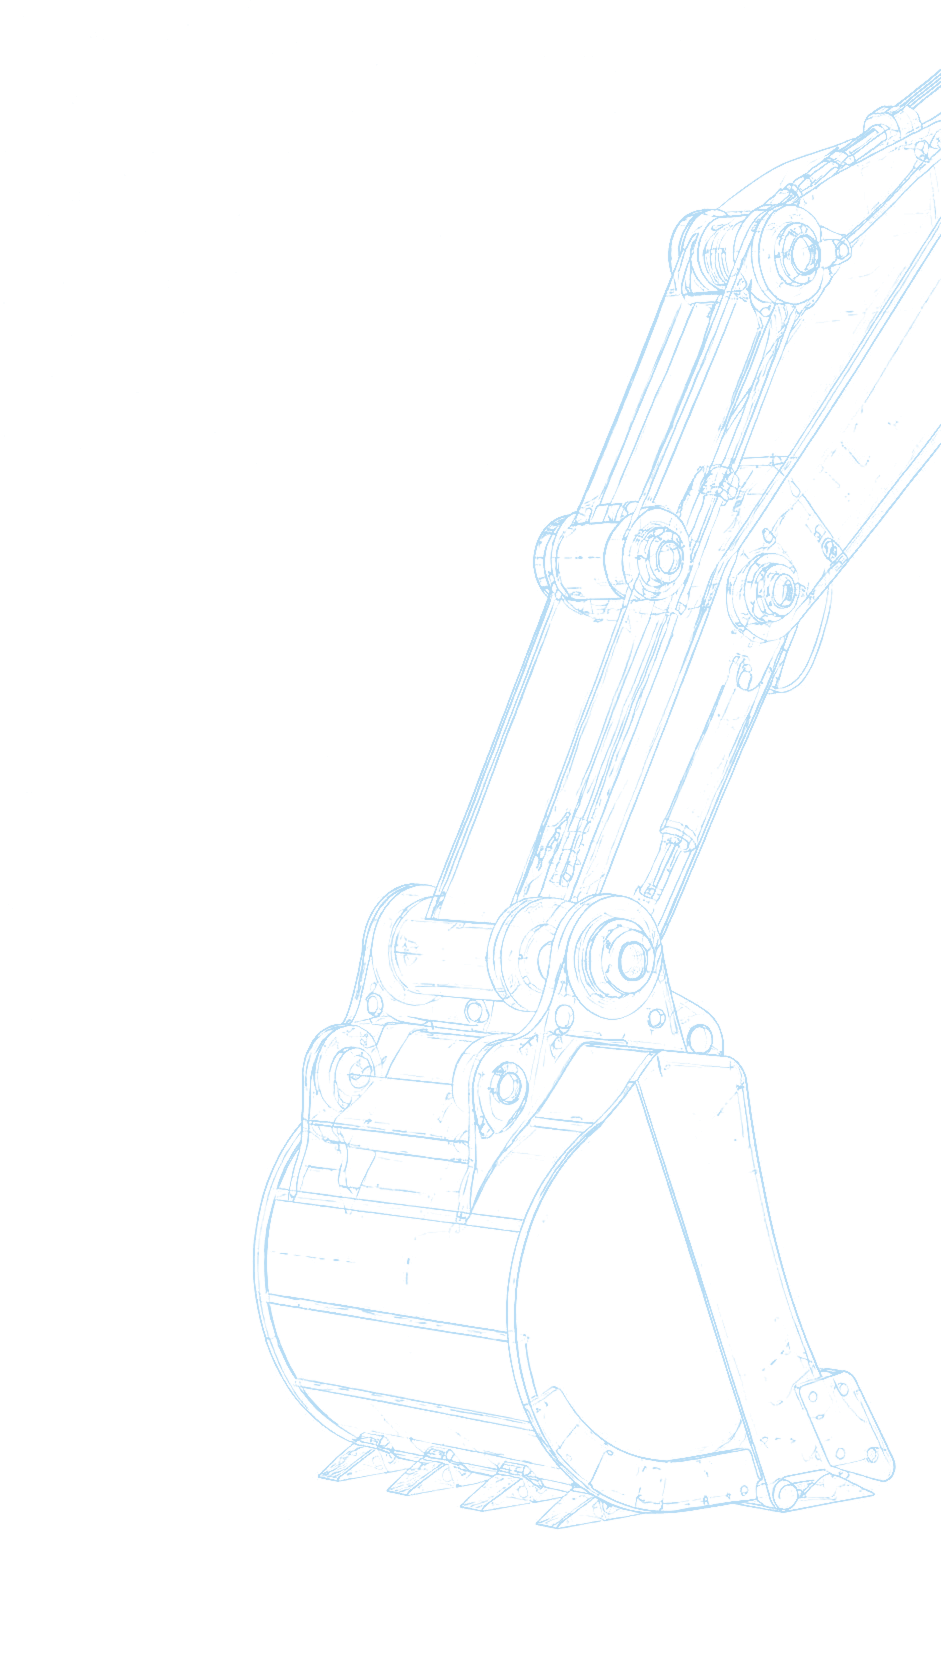
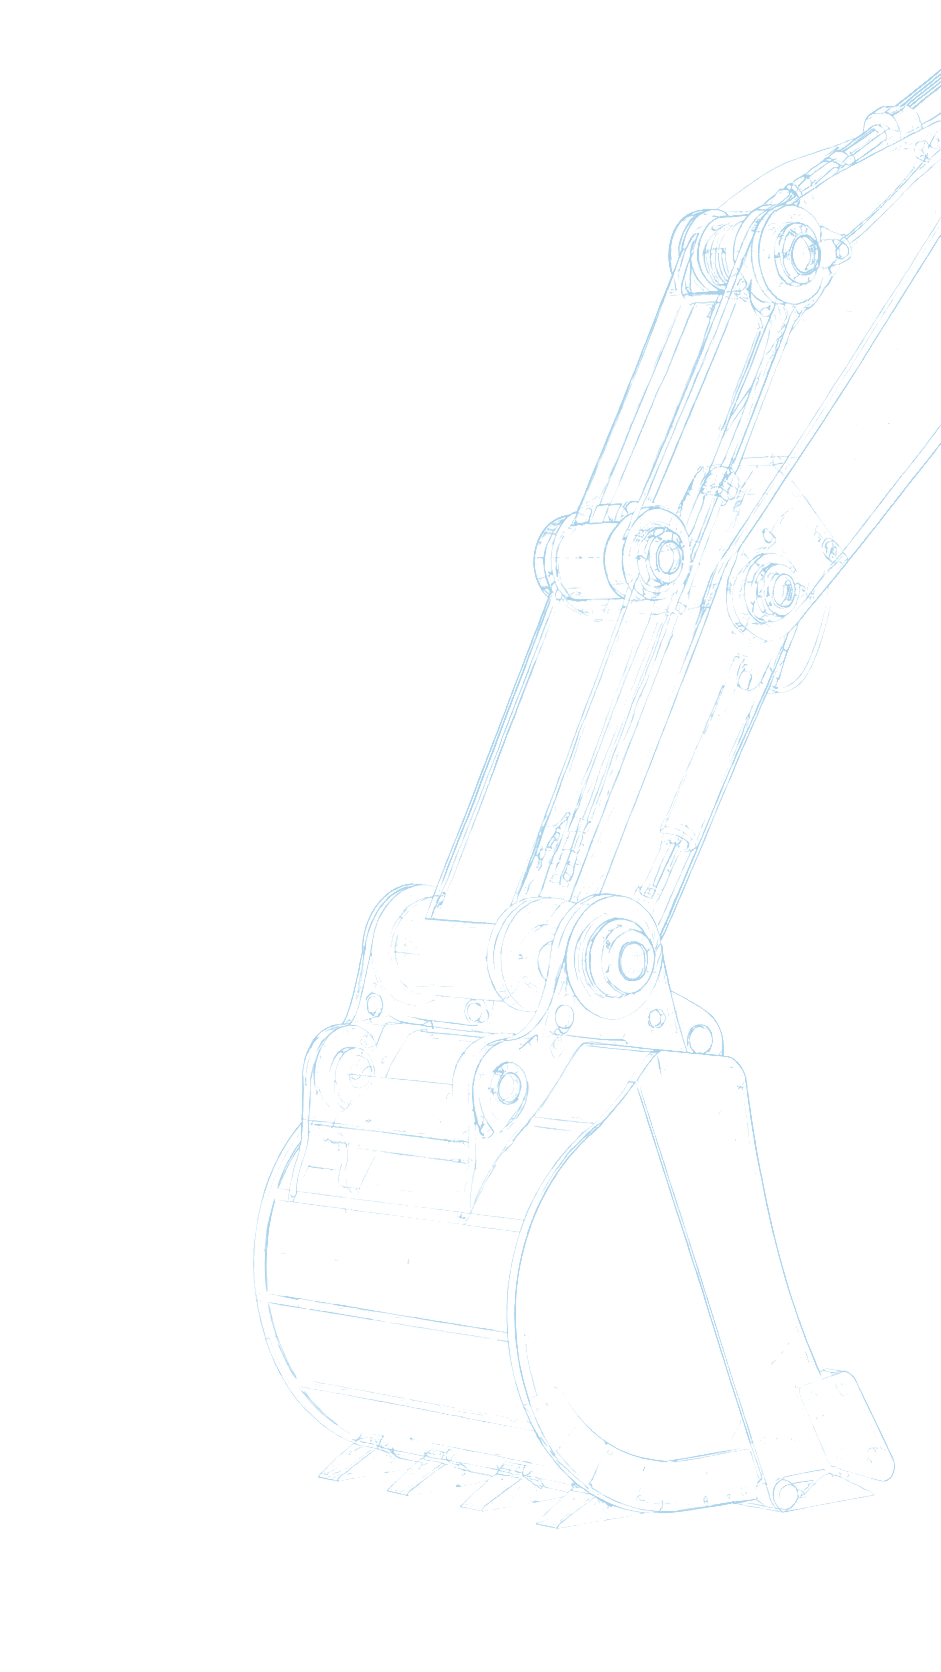
Deploy static excavator attachments site

diff --git a/assets/styles.css b/assets/styles.css
@@ -1,4 +1,4 @@
-:root {
+:root {
   --navy: #052946;
   --navy-2: #021a2f;
   --navy-3: #06375f;
@@ -1154,12 +1154,12 @@ a { color: inherit; }
 .home-quote {
   position: relative;
   display: grid;
-  grid-template-columns: minmax(320px, 430px) minmax(0, 1fr);
-  gap: clamp(26px, 3vw, 44px);
-  align-items: start;
+  grid-template-columns: minmax(360px, 520px) minmax(0, 1fr);
+  gap: clamp(22px, 2.2vw, 34px);
+  align-items: center;
   max-width: none;
   margin: 34px 0 0;
-  padding: 28px clamp(24px, 4vw, 56px);
+  padding: 22px clamp(24px, 3.4vw, 48px);
   color: #fff;
   background:
     radial-gradient(circle at 18% 20%, rgba(22, 82, 130, .5), transparent 34%),
@@ -1170,21 +1170,21 @@ a { color: inherit; }
 
 .quote-copy {
   position: relative;
-  min-height: 472px;
-  padding: 14px 0;
+  min-height: 458px;
+  padding: 6px 0 0;
   overflow: hidden;
 }
 
 .quote-copy::after {
   position: absolute;
-  right: -110px;
-  bottom: -30px;
+  right: -8px;
+  bottom: -36px;
   z-index: 0;
-  width: min(470px, 118%);
-  height: 80%;
+  width: min(390px, 66%);
+  height: 78%;
   content: "";
   background: url("/assets/images/quote-blueprint-linework.png") right bottom / contain no-repeat;
-  opacity: .32;
+  opacity: .34;
   mix-blend-mode: screen;
   pointer-events: none;
 }
@@ -1208,12 +1208,12 @@ a { color: inherit; }
 }
 
 .quote-copy h2 {
-  max-width: 430px;
-  margin-top: 18px;
+  max-width: 520px;
+  margin-top: 16px;
   color: #fff;
-  font-size: clamp(36px, 3.8vw, 58px);
-  line-height: 1.08;
-  letter-spacing: .03em;
+  font-size: clamp(34px, 2.75vw, 46px);
+  line-height: 1.05;
+  letter-spacing: .02em;
   text-shadow: 0 6px 18px rgba(0, 0, 0, .28);
   text-transform: uppercase;
 }
@@ -1221,7 +1221,7 @@ a { color: inherit; }
 .quote-copy ul {
   display: grid;
   gap: 9px;
-  margin: 22px 0 24px;
+  margin: 18px 0 18px;
   padding: 0;
   color: #fff;
   font-size: 17px;
@@ -1248,9 +1248,9 @@ a { color: inherit; }
 
 .quote-contact-list {
   display: grid;
-  gap: 18px;
+  gap: 12px;
   max-width: 360px;
-  padding-top: 22px;
+  padding-top: 16px;
   border-top: 1px solid rgba(255, 255, 255, .34);
 }
 
@@ -1294,7 +1294,7 @@ a { color: inherit; }
 .form-grid {
   display: grid;
   grid-template-columns: repeat(4, 1fr);
-  gap: 18px 20px;
+  gap: 13px 18px;
 }
 
 .form-grid .wide { grid-column: span 2; }
@@ -1306,11 +1306,11 @@ a { color: inherit; }
 
 .footer {
   position: relative;
-  margin-top: 36px;
+  margin-top: 0;
   overflow: hidden;
   color: rgba(255, 255, 255, .82);
   background:
-    radial-gradient(circle at 20% 14%, rgba(13, 75, 118, .46), transparent 34%),
+    radial-gradient(circle at 20% 14%, rgba(13, 75, 118, .36), transparent 34%),
     linear-gradient(135deg, #061A2C 0%, #071523 100%);
 }
 
@@ -1318,8 +1318,8 @@ a { color: inherit; }
   content: "";
   position: absolute;
   inset: 0;
-  background: url("/assets/images/footer-blueprint-bg.svg") center bottom / cover no-repeat;
-  opacity: .18;
+  background: url("/assets/images/footer-blueprint-bg.svg") right 36px bottom -26px / min(920px, 66vw) auto no-repeat;
+  opacity: .075;
   pointer-events: none;
 }
 
@@ -1328,10 +1328,10 @@ a { color: inherit; }
   position: absolute;
   inset: 0;
   background-image:
-    linear-gradient(rgba(255, 255, 255, .045) 1px, transparent 1px),
-    linear-gradient(90deg, rgba(255, 255, 255, .04) 1px, transparent 1px);
-  background-size: 88px 88px;
-  opacity: .2;
+    linear-gradient(rgba(255, 255, 255, .02) 1px, transparent 1px),
+    linear-gradient(90deg, rgba(255, 255, 255, .018) 1px, transparent 1px);
+  background-size: 140px 140px;
+  opacity: .12;
   pointer-events: none;
 }
 
@@ -1339,12 +1339,12 @@ a { color: inherit; }
   position: relative;
   z-index: 1;
   display: grid;
-  grid-template-columns: minmax(240px, 1.35fr) repeat(3, minmax(130px, .72fr)) minmax(205px, 1fr) minmax(170px, .82fr);
-  gap: clamp(24px, 3vw, 42px);
+  grid-template-columns: minmax(225px, 1.2fr) repeat(3, minmax(118px, .62fr)) minmax(195px, .9fr) minmax(235px, .9fr);
+  gap: clamp(22px, 2.4vw, 34px);
   align-items: start;
   max-width: 1320px;
   margin: 0 auto;
-  padding: 70px 24px 46px;
+  padding: 64px 24px 42px;
 }
 
 .footer-col { min-width: 0; }
@@ -1410,7 +1410,7 @@ a { color: inherit; }
 }
 
 .footer-links a::before {
-  content: "›";
+  content: "\203A";
   color: #F5A800;
   font-size: 18px;
   line-height: 1;
@@ -1473,10 +1473,10 @@ a { color: inherit; }
 .qr-box {
   display: grid;
   justify-items: center;
-  gap: 8px;
+  gap: 10px;
   width: 100%;
-  max-width: 178px;
-  padding: 18px;
+  max-width: 260px;
+  padding: 17px 18px 16px;
   text-align: center;
   background: rgba(255, 255, 255, .06);
   border: 1px solid rgba(255, 255, 255, .12);
@@ -1486,8 +1486,8 @@ a { color: inherit; }
 
 .qr-image {
   display: block;
-  width: 124px;
-  height: 124px;
+  width: 130px;
+  height: 130px;
   margin: 0;
   padding: 8px;
   object-fit: contain;
@@ -1495,19 +1495,35 @@ a { color: inherit; }
   border-radius: 4px;
 }
 
-.qr-box strong {
+.qr-caption {
+  display: inline-flex;
+  gap: 8px;
+  align-items: center;
+  justify-content: center;
   margin: 4px 0 0;
+  max-width: 100%;
+  white-space: nowrap;
+}
+
+.qr-caption strong {
   color: #fff;
-  font-size: 12px;
+  font-size: 11px;
   font-weight: 850;
-  letter-spacing: .04em;
+  letter-spacing: .035em;
   text-transform: uppercase;
 }
 
-.qr-box span {
+.qr-caption span {
   color: rgba(255, 255, 255, .68);
-  font-size: 12px;
+  font-size: 11px;
+  font-weight: 650;
   line-height: 1.35;
+}
+
+.qr-caption span::before {
+  margin-right: 8px;
+  color: rgba(245, 168, 0, .88);
+  content: "/";
 }
 
 .footer-bottom {
@@ -1701,7 +1717,7 @@ tr:last-child td { border-bottom: 0; }
 }
 
 .quote-form.inquiry {
-  padding: 28px 30px;
+  padding: 20px 26px 18px;
   border-color: #d7e1ec;
   border-radius: 18px;
 }
@@ -1710,9 +1726,9 @@ tr:last-child td { border-bottom: 0; }
   position: relative;
   display: flex;
   flex-direction: column;
-  gap: 7px;
+  gap: 5px;
   color: #0b1f38;
-  font-size: 15px;
+  font-size: 14px;
   font-weight: 760;
 }
 
@@ -1735,8 +1751,8 @@ tr:last-child td { border-bottom: 0; }
 .inquiry textarea,
 .inquiry select {
   width: 100%;
-  min-height: 50px;
-  padding: 0 16px;
+  min-height: 46px;
+  padding: 0 15px;
   color: #071b35;
   border: 1px solid #cbd5e1;
   border-radius: 6px;
@@ -1754,8 +1770,8 @@ tr:last-child td { border-bottom: 0; }
 }
 
 .inquiry textarea {
-  min-height: 104px;
-  padding-top: 14px;
+  min-height: 92px;
+  padding-top: 12px;
   line-height: 1.45;
 }
 
@@ -1776,8 +1792,8 @@ tr:last-child td { border-bottom: 0; }
   align-items: center;
   justify-content: center;
   width: 100%;
-  min-height: 50px;
-  padding: 8px 14px;
+  min-height: 46px;
+  padding: 7px 14px;
   border: 1px solid #cbd5e1;
   border-style: dashed;
   border-radius: 6px;
@@ -1792,14 +1808,14 @@ tr:last-child td { border-bottom: 0; }
   gap: 10px;
   max-width: 100%;
   color: #10243d;
-  font-size: 17px;
+  font-size: 16px;
   font-weight: 760;
   white-space: nowrap;
 }
 
 .file-upload-icon {
-  width: 28px;
-  height: 28px;
+  width: 25px;
+  height: 25px;
   object-fit: contain;
 }
 
@@ -1811,9 +1827,9 @@ tr:last-child td { border-bottom: 0; }
 }
 
 .file-upload-note {
-  margin-top: 7px;
+  margin-top: 5px;
   color: #64748b;
-  font-size: 15px;
+  font-size: 14px;
   font-weight: 600;
   text-align: center;
 }
@@ -1848,7 +1864,7 @@ tr:last-child td { border-bottom: 0; }
 }
 
 .quote-form .wide-button {
-  min-height: 56px;
+  min-height: 52px;
   border-radius: 6px;
   font-size: 18px;
   letter-spacing: .04em;

diff --git a/index.html b/index.html
@@ -428,8 +428,7 @@
       <h2 class="footer-title">QR CODE</h2>
       <div class="qr-box">
         <img class="qr-image" src="/assets/brand/whatsapp-qr.png" alt="WhatsApp QR code for KRATOR Attachments" loading="lazy">
-        <strong>SCAN TO CONTACT US</strong>
-        <span>WhatsApp / WeChat Support</span>
+        <p class="qr-caption"><strong>SCAN TO CONTACT US</strong><span>WhatsApp / WeChat</span></p>
       </div>
     </section>
   </div>